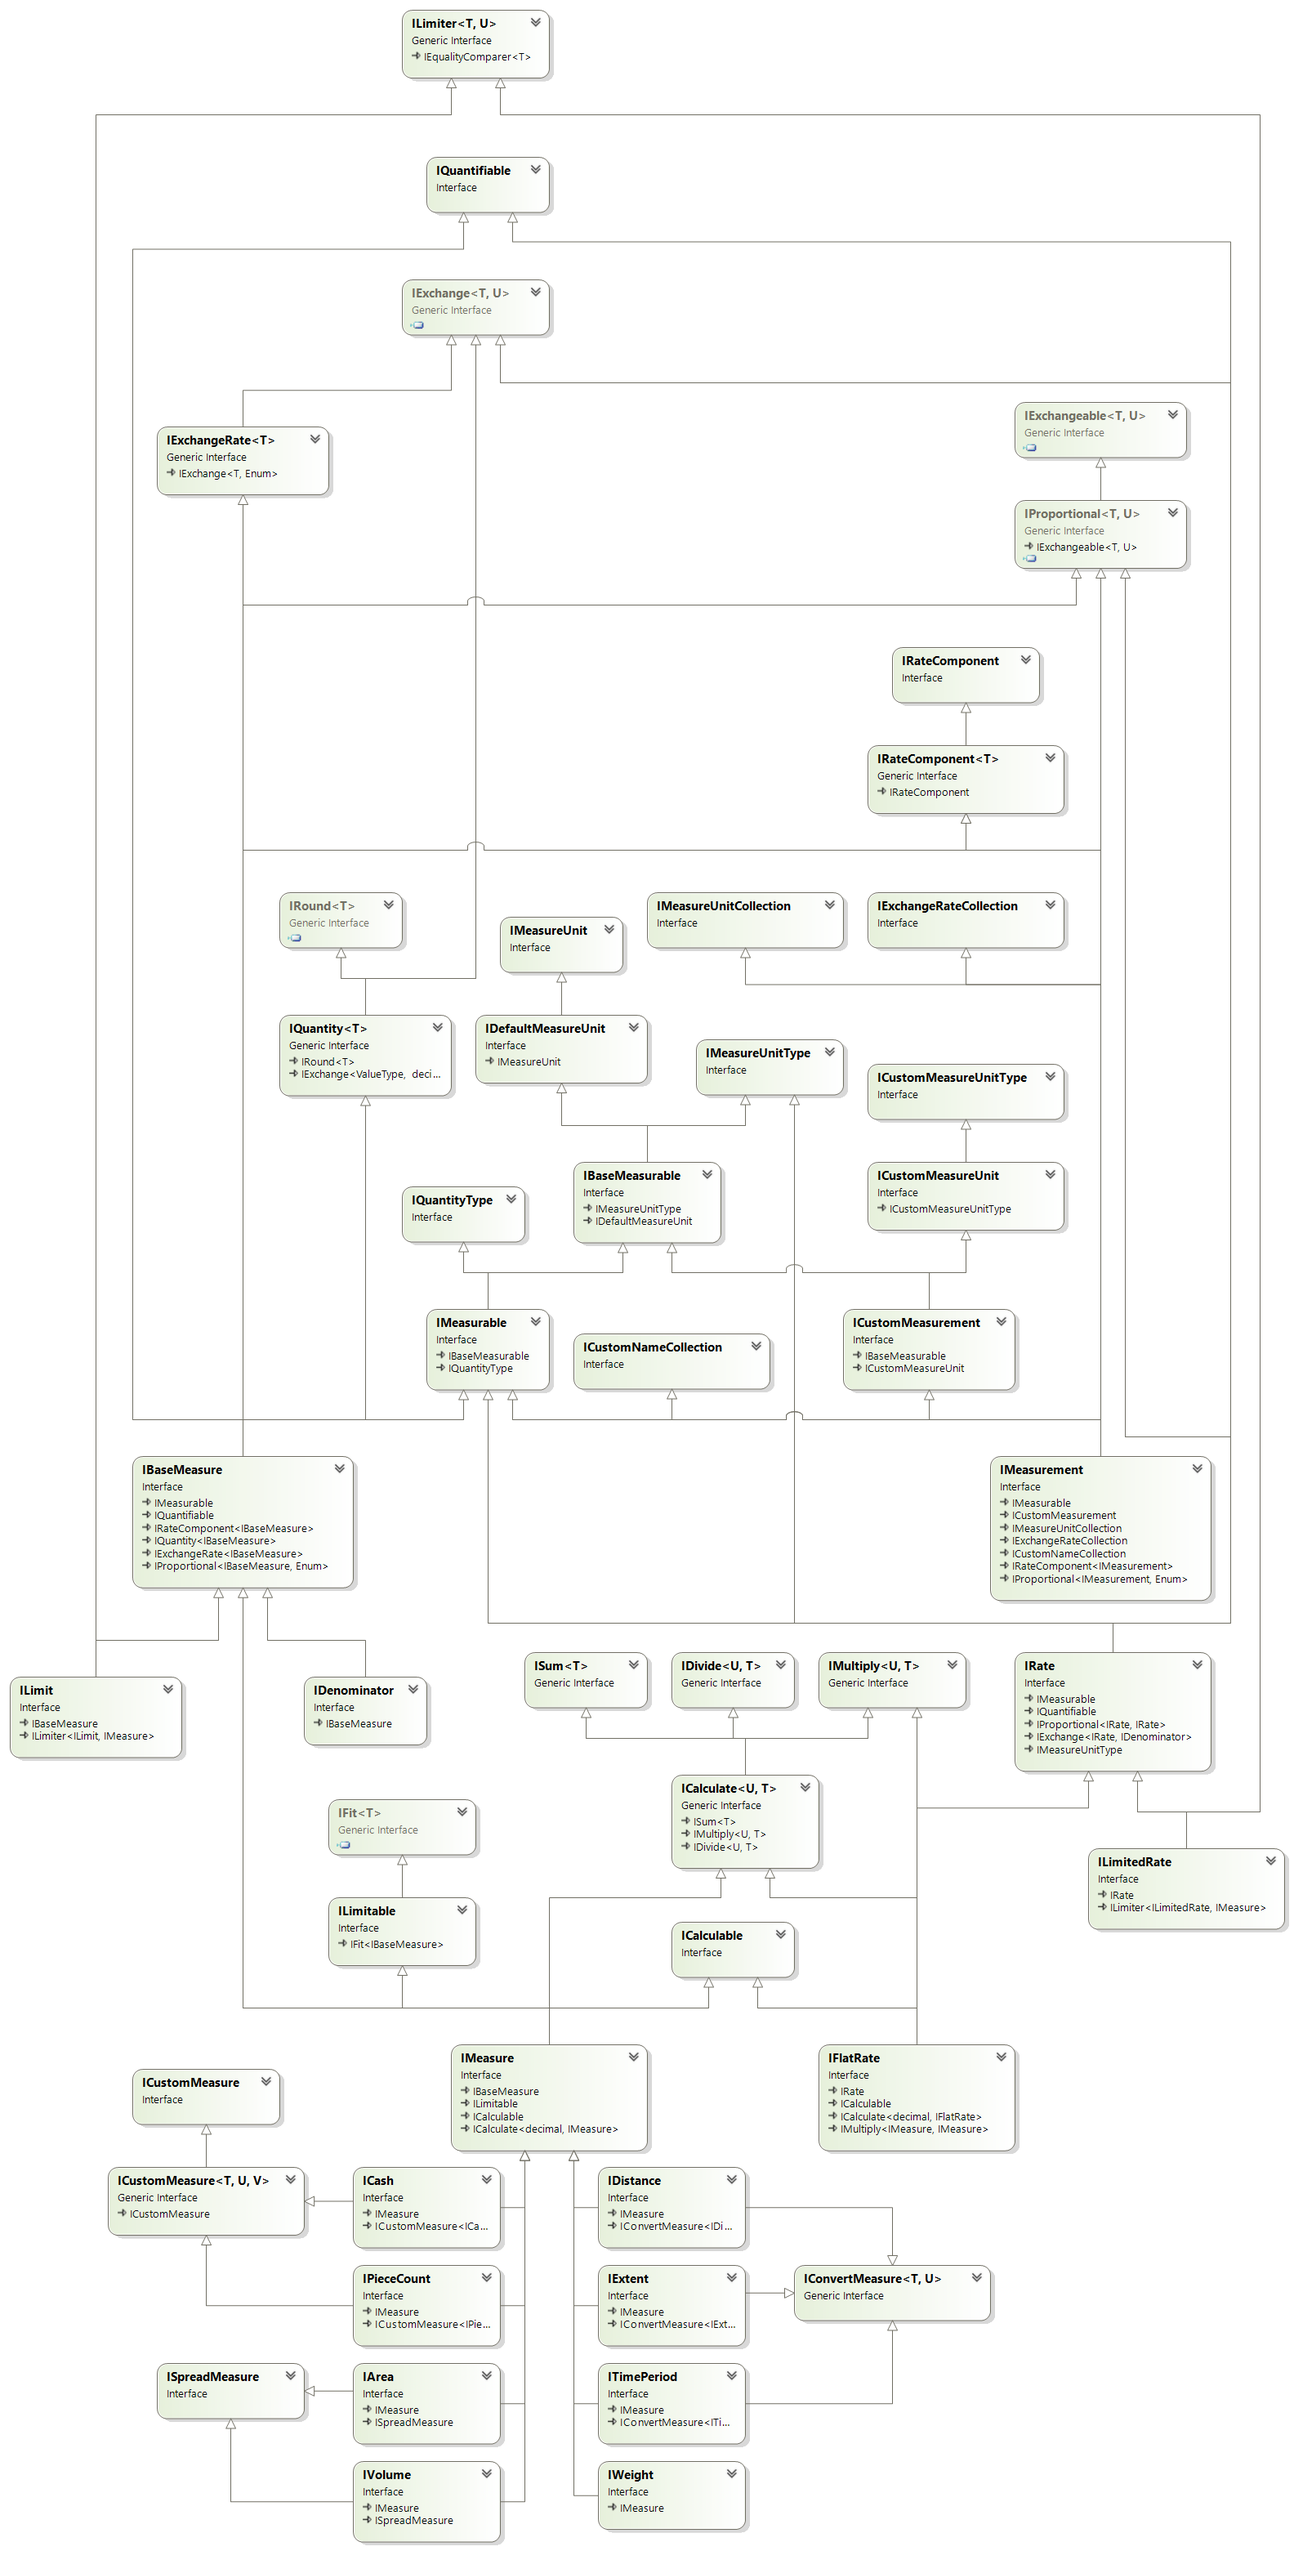
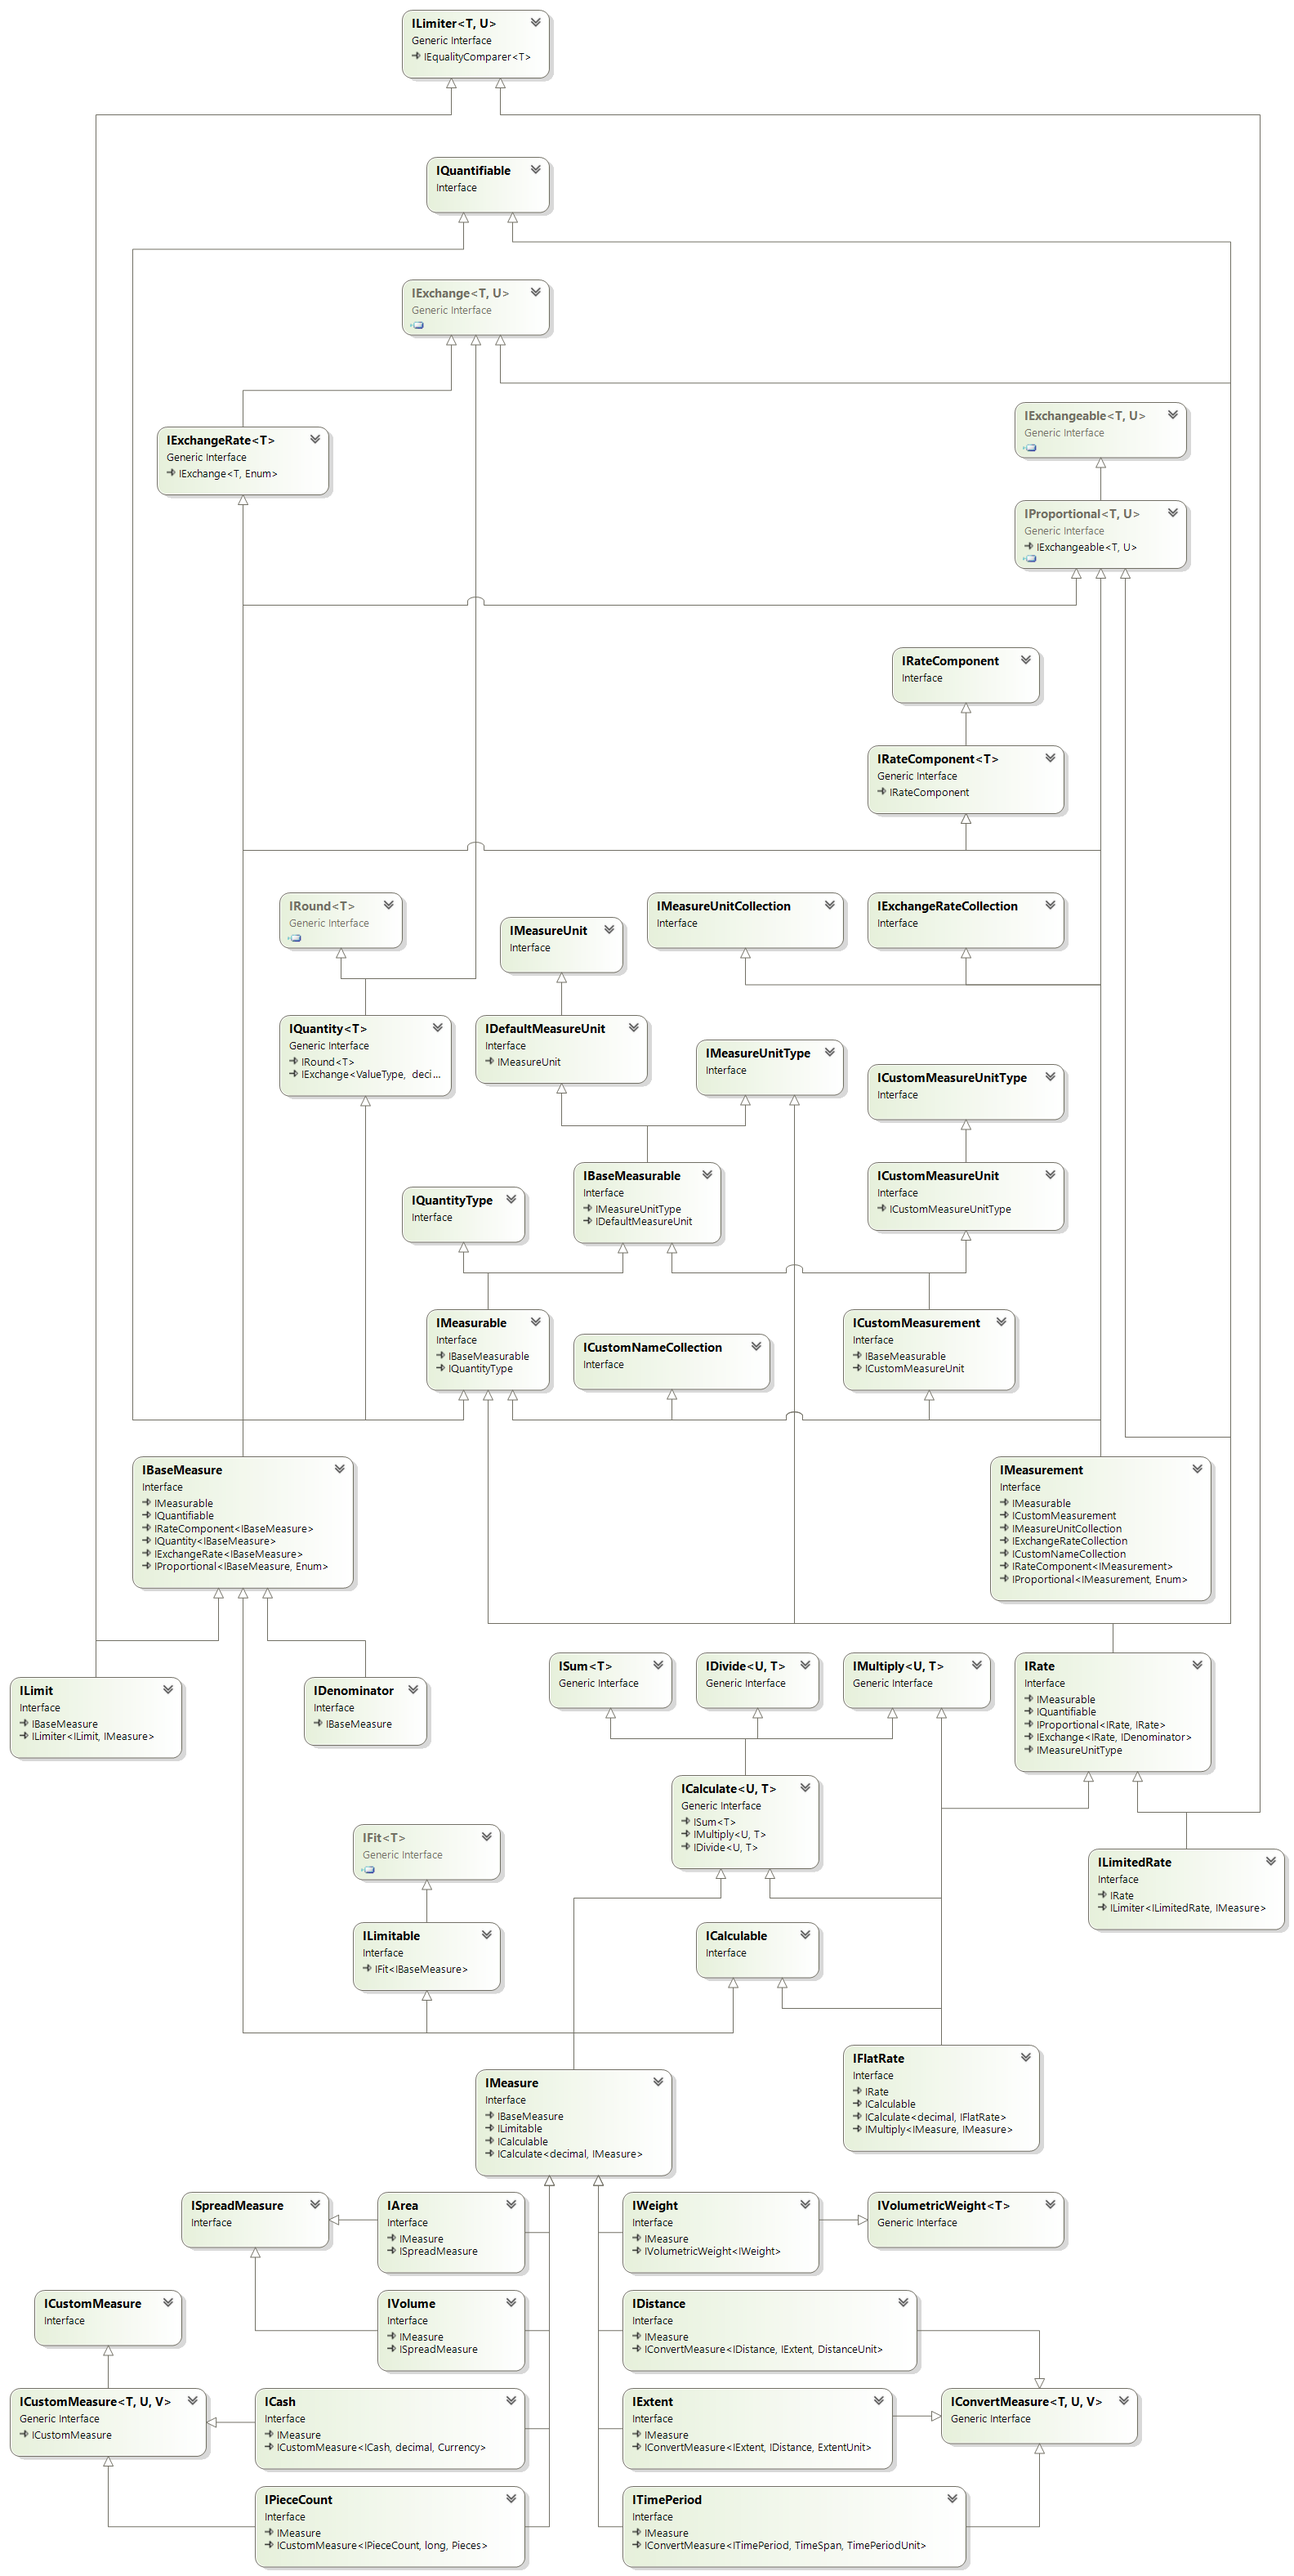
Measurables cont.

diff --git a/Measurables/Types/Implementations/MeasureTypes/Area.cs b/Measurables/Types/Implementations/MeasureTypes/Area.cs
@@ -45,6 +45,56 @@
         }
     }
 
+    internal class TimePeriod : Measure, ITimePeriod
+    {
+        public TimePeriod(ITimePeriod timePeriod) : base(timePeriod)
+        {
+        }
+
+        public TimePeriod(IMeasureFactory measureFactory, ValueType quantity, Enum measureUnit) : base(measureFactory, quantity, measureUnit)
+        {
+        }
+
+        public TimePeriod(IMeasureFactory measureFactory, ValueType quantity, IMeasurement measurement) : base(measureFactory, quantity, measurement)
+        {
+        }
+
+        public ITimePeriod ConvertFrom(TimeSpan other, TimePeriodUnit? timePeriodUnit = null)
+        {
+            throw new NotImplementedException();
+        }
+
+        public TimeSpan ConvertMeasure(ITimePeriod? timePeriod = null)
+        {
+            throw new NotImplementedException();
+        }
+
+        public ITimePeriod GetTimePeriod(double quantity, TimePeriodUnit timePeriodUnit)
+        {
+            throw new NotImplementedException();
+        }
+
+        public ITimePeriod GetTimePeriod(ValueType quantity, string name)
+        {
+            throw new NotImplementedException();
+        }
+
+        public ITimePeriod GetTimePeriod(ValueType quantity, IMeasurement measurement)
+        {
+            throw new NotImplementedException();
+        }
+
+        public ITimePeriod GetTimePeriod(IBaseMeasure baseMeasure)
+        {
+            throw new NotImplementedException();
+        }
+
+        public ITimePeriod GetTimePeriod(ITimePeriod? other = null)
+        {
+            throw new NotImplementedException();
+        }
+    }
+
     internal sealed class Distance : Measure, IDistance
     {
         internal Distance(IDistance distance) : base(distance)
@@ -58,12 +108,12 @@
         internal Distance(IMeasureFactory measureFactory, ValueType quantity, IMeasurement measurement) : base(measureFactory, quantity, measurement)
         {
         }
-        public IDistance ConvertFrom(IExtent other, Enum? measureUnit = null)
+        public IDistance ConvertFrom(IExtent extent, DistanceUnit? distanceUnit = null)
         {
             throw new NotImplementedException();
         }
 
-        public IExtent ConvertMeasure(IDistance? convertibleMeasure = null)
+        public IExtent ConvertMeasure(IDistance? distance = null)
         {
             throw new NotImplementedException();
         }

diff --git a/Measurables/Types/MeasureTypes/IWeight.cs b/Measurables/Types/MeasureTypes/IWeight.cs
@@ -1,12 +1,10 @@
 namespace CsabaDu.FooVaria.Measurables.Types.MeasureTypes;
 
-public interface IWeight : IMeasure
+public interface IWeight : IMeasure, IVolumetricWeight<IWeight>
 {
     IWeight GetWeight(double quantity, WeightUnit weightUnit);
     IWeight GetWeight(ValueType quantity, string name);
     IWeight GetWeight(ValueType quantity, IMeasurement measurement);
     IWeight GetWeight(IBaseMeasure baseMeasure);
     IWeight GetWeight(IWeight? other = null);
-
-    IWeight GetVolumetricWeight(IVolume volume, decimal ratio, WeightUnit weightUnit = default, bool isGreater = true);
 }

diff --git a/Measurables/Behaviors/IConvertMeasure.cs b/Measurables/Behaviors/IConvertMeasure.cs
@@ -1,7 +1,7 @@
 namespace CsabaDu.FooVaria.Measurables.Behaviors;
 
-public interface IConvertMeasure<T, U> where T : class, IMeasure where U : notnull
+public interface IConvertMeasure<T, U, V> where T : class, IMeasure where U : notnull where V : struct, Enum
 {
-    T ConvertFrom(U other, Enum? measureUnit = null);
+    T ConvertFrom(U other, V? measureUnit = null);
     U ConvertMeasure(T? convertibleMeasure = null);
 }

diff --git a/Measurables/Types/MeasureTypes/ITimePeriod.cs b/Measurables/Types/MeasureTypes/ITimePeriod.cs
@@ -1,6 +1,6 @@
 namespace CsabaDu.FooVaria.Measurables.Types.MeasureTypes;
 
-public interface ITimePeriod : IMeasure, IConvertMeasure<ITimePeriod, TimeSpan>
+public interface ITimePeriod : IMeasure, IConvertMeasure<ITimePeriod, TimeSpan, TimePeriodUnit>
 {
     ITimePeriod GetTimePeriod(double quantity, TimePeriodUnit timePeriodUnit);
     ITimePeriod GetTimePeriod(ValueType quantity, string name);

diff --git a/Measurables/Types/MeasureTypes/IDistance.cs b/Measurables/Types/MeasureTypes/IDistance.cs
@@ -1,6 +1,6 @@
 namespace CsabaDu.FooVaria.Measurables.Types.MeasureTypes;
 
-public interface IDistance : IMeasure, IConvertMeasure<IDistance, IExtent>
+public interface IDistance : IMeasure, IConvertMeasure<IDistance, IExtent, DistanceUnit>
 {
     IDistance GetDistance(double quantity, DistanceUnit distanceUnit);
     IDistance GetDistance(ValueType quantity, string name);

diff --git a/Measurables/Types/MeasureTypes/IExtent.cs b/Measurables/Types/MeasureTypes/IExtent.cs
@@ -1,6 +1,6 @@
 namespace CsabaDu.FooVaria.Measurables.Types.MeasureTypes;
 
-public interface IExtent : IMeasure, IConvertMeasure<IExtent, IDistance>
+public interface IExtent : IMeasure, IConvertMeasure<IExtent, IDistance, ExtentUnit>
 {
     IExtent GetExtent(double quantity, ExtentUnit extentUnit);
     IExtent GetExtent(ValueType quantity, string name);

diff --git a/Measurables/Behaviors/IVolumetricWeight.cs b/Measurables/Behaviors/IVolumetricWeight.cs
@@ -1,0 +1,7 @@
+namespace CsabaDu.FooVaria.Measurables.Behaviors;
+
+public interface IVolumetricWeight<out T> where T : class, IMeasure
+{
+    T GetVolumetricWeight(IVolume volume, decimal ratio, WeightUnit weightUnit = default, bool isGreater = true);
+}
+

diff --git a/Measurables/Behaviors/ICalculate.cs b/Measurables/Behaviors/ICalculate.cs
@@ -3,3 +3,4 @@
 public interface ICalculate<in U, T> : ISum<T>, IMultiply<U, T>, IDivide<U, T> where U : notnull where T : class, IMeasurable, ICalculable
 {
 }
+
